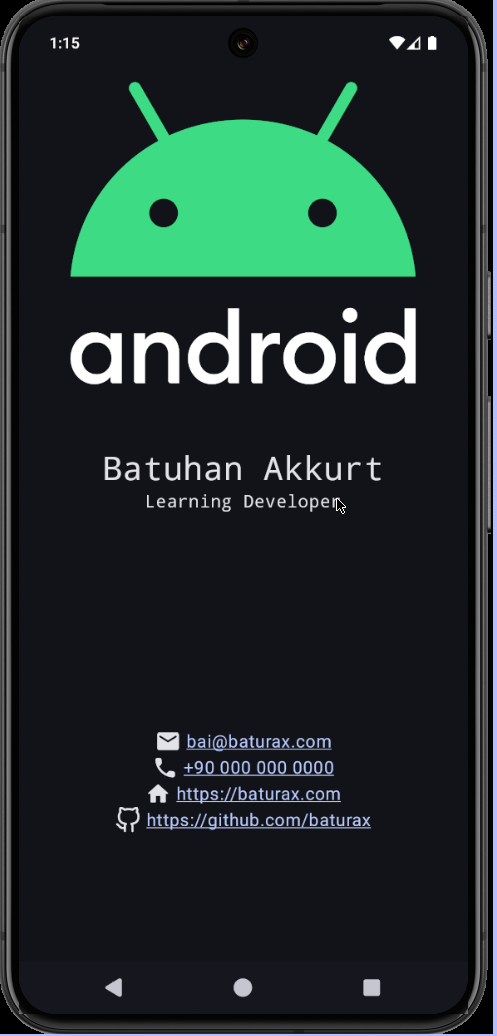
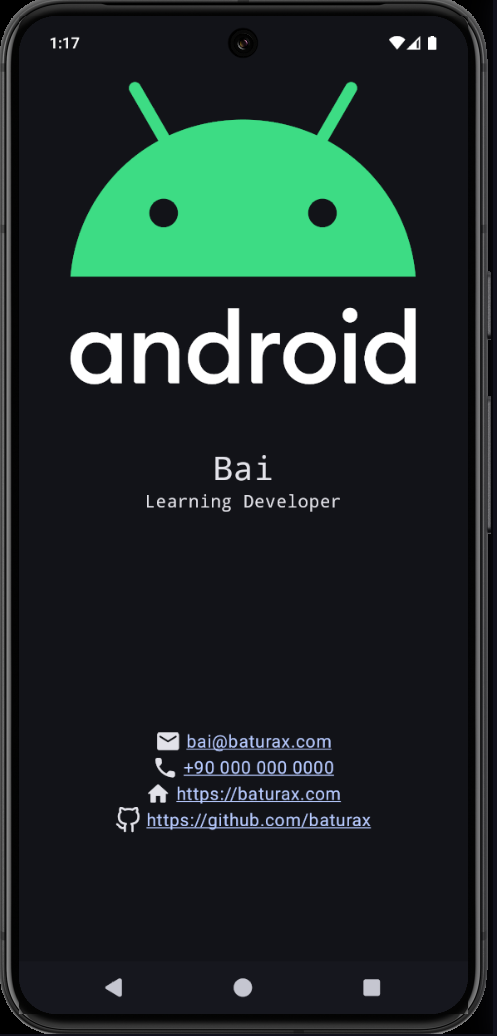
readme.md

Changed region(s): [[0.0, 0.0, 1.0, 1.0], [0.2113, 0.4324, 0.7545, 0.4633]]

diff --git a/app/src/main/java/com/example/myapplication/MainActivity.kt b/app/src/main/java/com/example/myapplication/MainActivity.kt
@@ -70,7 +70,7 @@ fun MainScreen() {
                 modifier = Modifier.weight(1f)
             )
             Text(
-                text = "Batuhan Akkurt",
+                text = "Bai",
                 fontSize = 30.sp,
                 fontFamily = FontFamily.Monospace,
                 textAlign = TextAlign.Center
